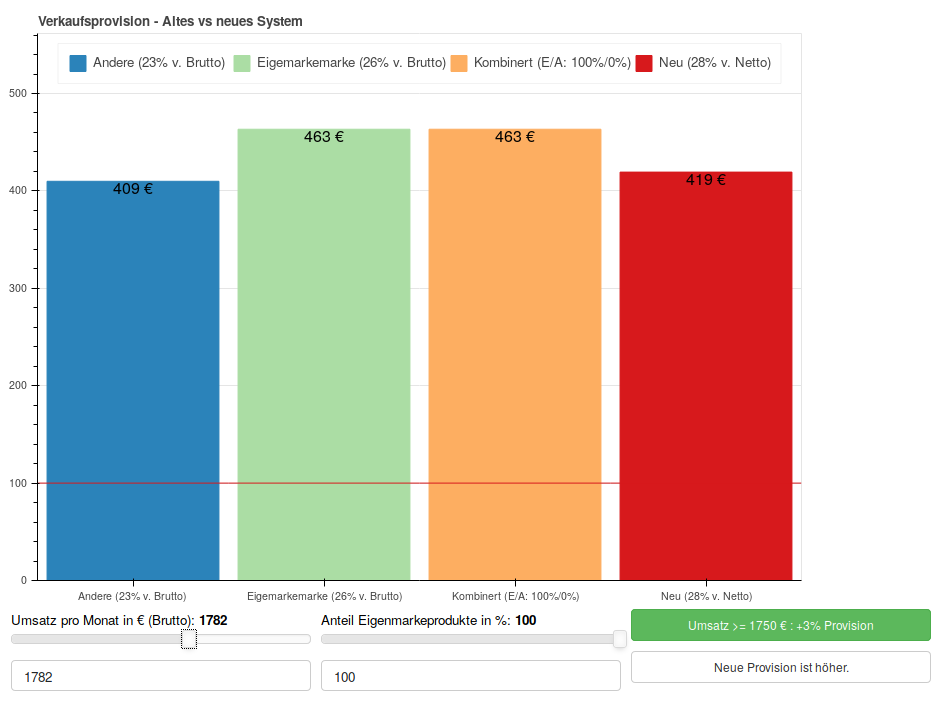
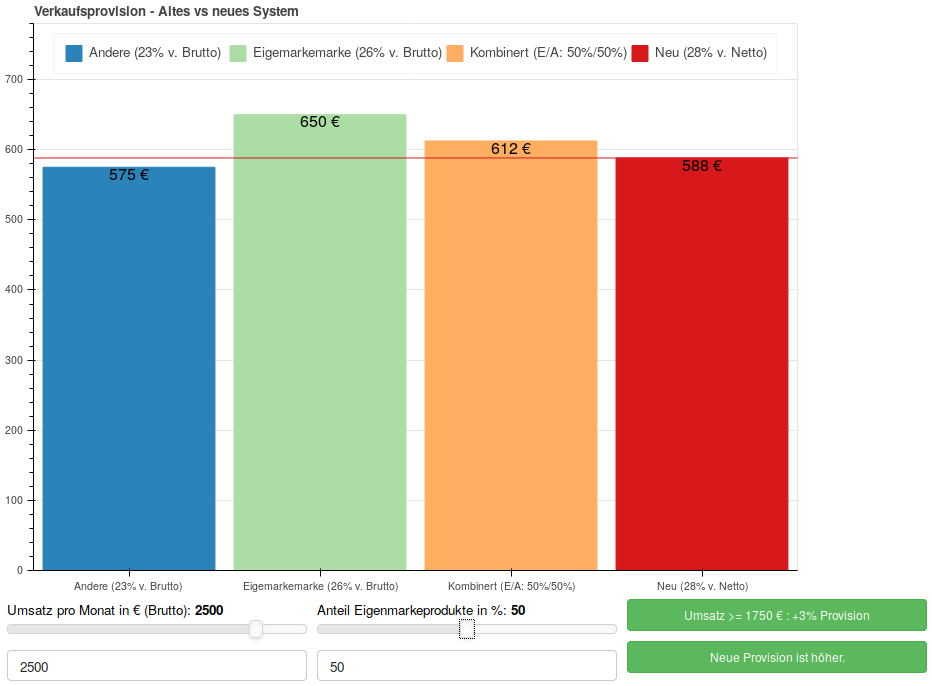
adding comparative line, updating screenshot

Changed region(s): [[0.0, 0.0, 0.9957, 0.9796], [0.2489, 0.1531, 0.4356, 0.2143], [0.2178, 0.6735, 0.28, 0.7041]]

diff --git a/bars.py b/bars.py
@@ -48,7 +48,8 @@ def set_data(umsatz=3000, anteil_hausmarke=66):
                provisionsquellen[3]]
     provision = [provision_andere, provision_eigenmarke, provision_kombiniert, provision_neu]
     data_source.data = dict(provision=provision,
-                            #provision_neu=[provision_neu],
+                            line_limits=[0, 1, 2, len(provision)+1],
+                            provision_neu=[provision_neu]*4,
                             quellen=quellen,
                             text=['{} €'.format(int(p)) for p in provision],
                             color=COLORMAP)
@@ -66,7 +67,7 @@ plot = figure( x_range=provisionsquellen,
                plot_width=800)
 plot.vbar(x='quellen', top='provision', width=0.9, color='color', legend='quellen', source=data_source)
 plot.text(x='quellen', y='provision', text='text', text_align='center', text_baseline='top', source=data_source)
-plot.line(x=range(len(provisionsquellen)+1), y=[100]*(len(provisionsquellen)+1), line_color=COLORMAP[-1])
+plot.line(x='line_limits', y='provision_neu', line_color=COLORMAP[-1], source=data_source)
 plot.xgrid.grid_line_color = None
 plot.legend.orientation = 'horizontal'
 plot.legend.location='top_center'
